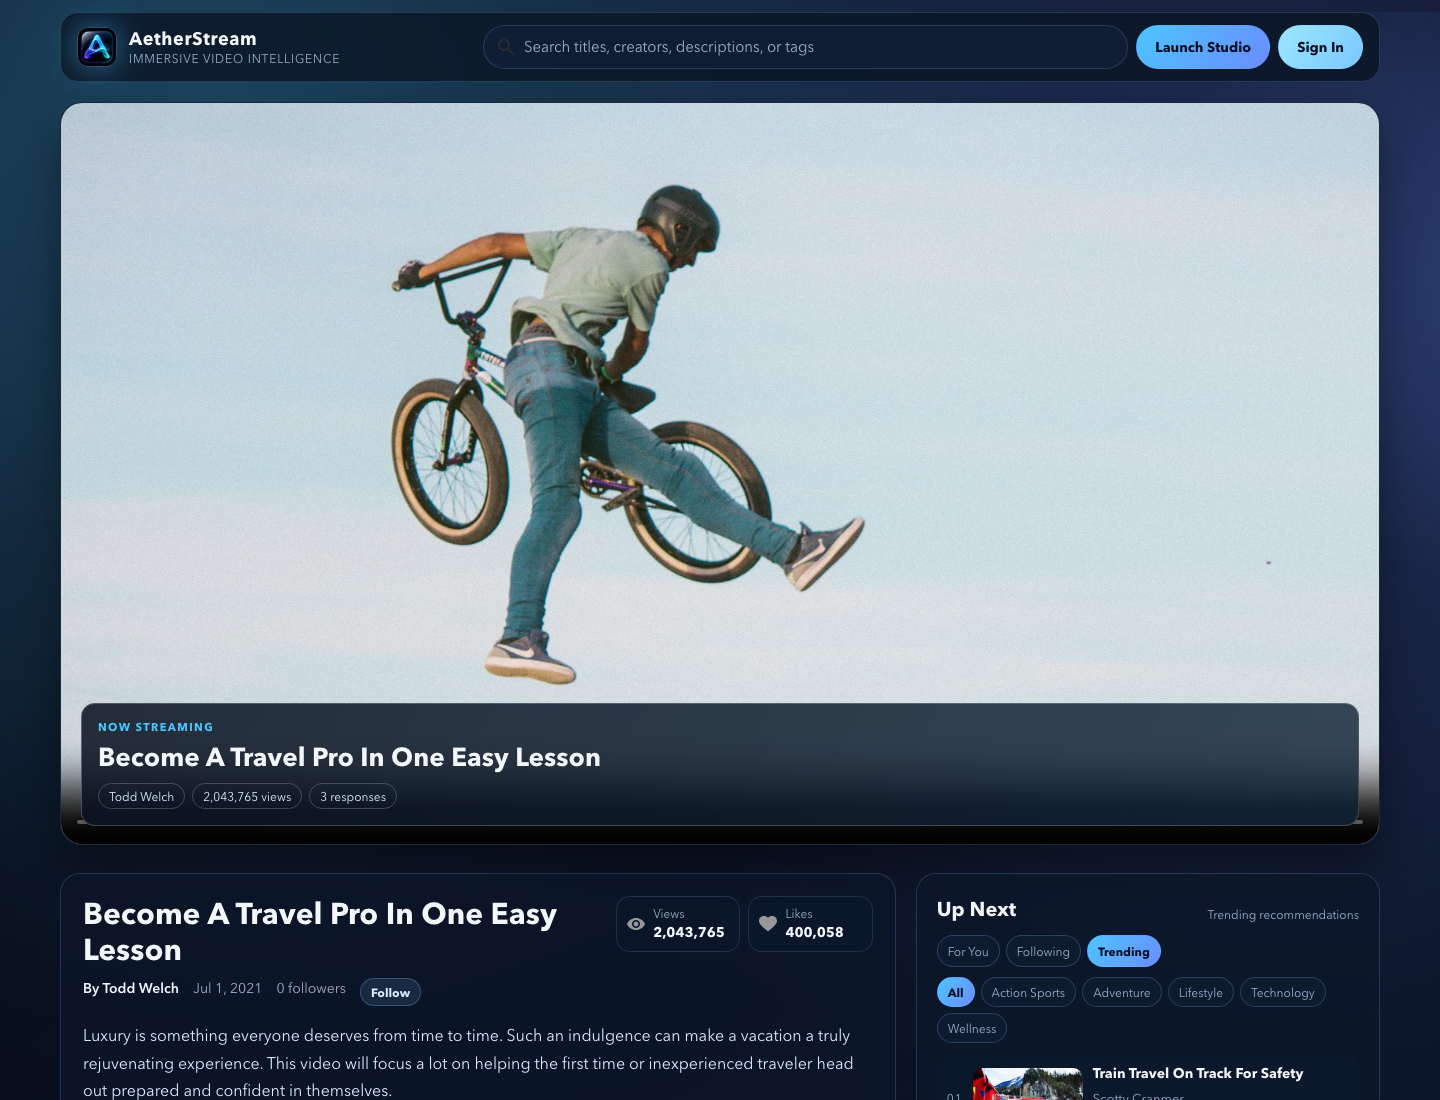
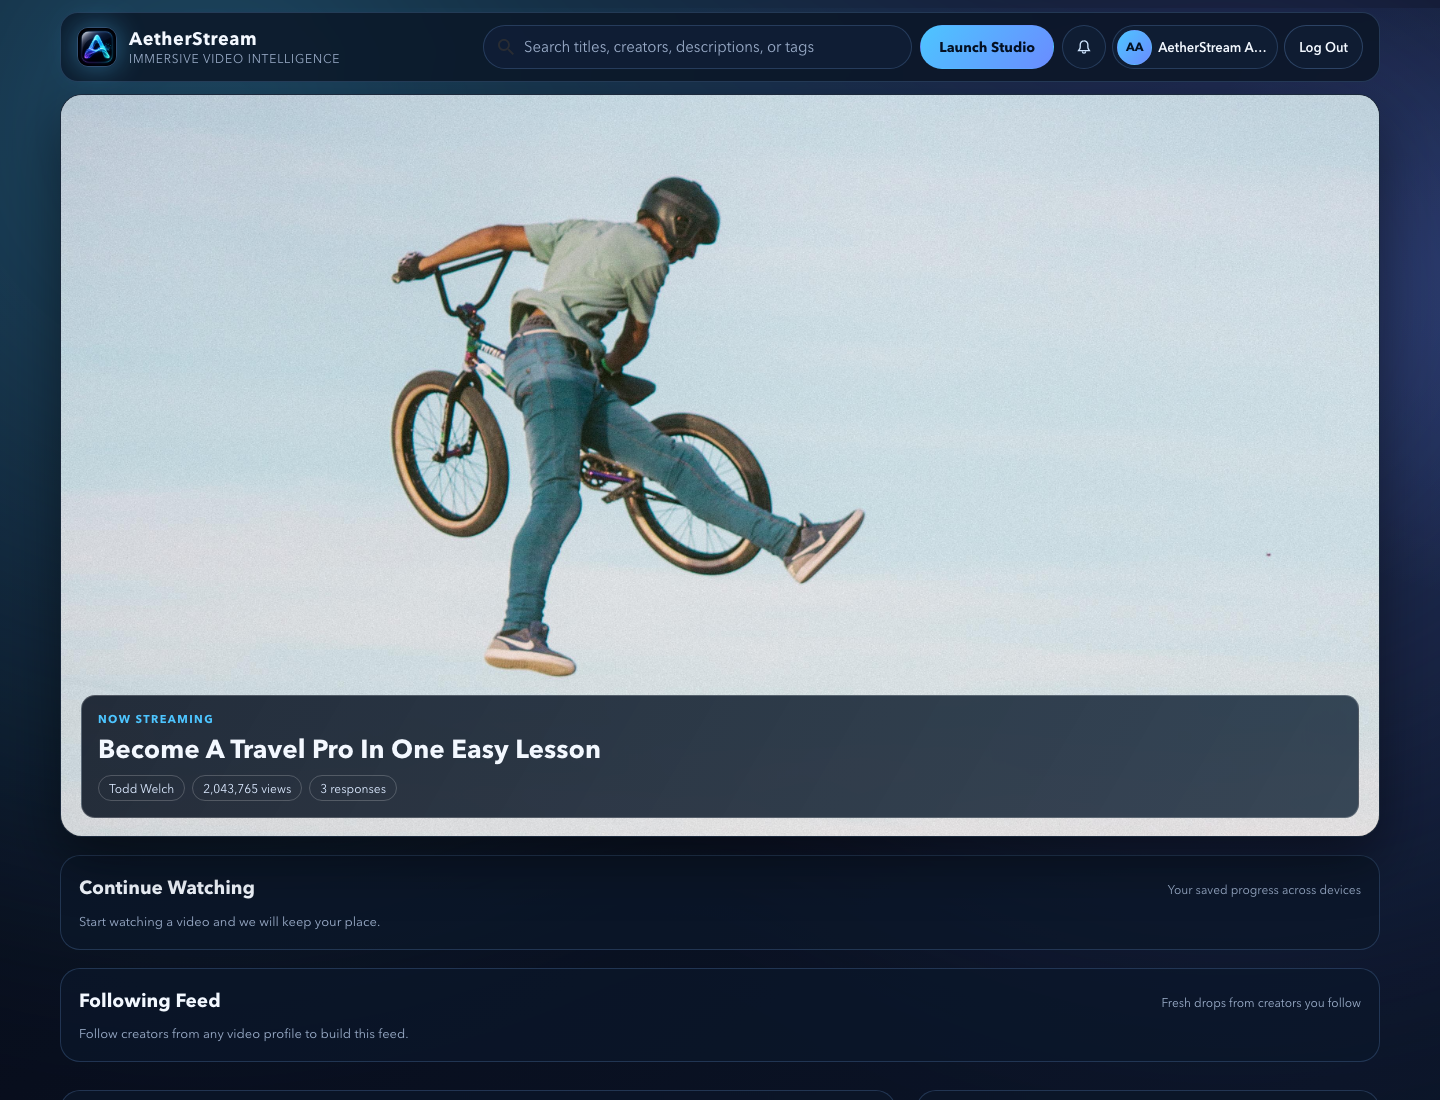
Refine README screenshots

diff --git a/src/components/hero/Hero.js b/src/components/hero/Hero.js
@@ -1,5 +1,5 @@
 import "./Hero.scss";
-import { useCallback, useEffect, useRef } from "react";
+import { useCallback, useEffect, useRef, useState } from "react";
 
 function Hero({
   currentVideoDetails,
@@ -8,6 +8,7 @@ function Hero({
 }) {
   const videoRef = useRef(null);
   const lastAppliedResumeKeyRef = useRef("");
+  const [hasStartedPlayback, setHasStartedPlayback] = useState(false);
   const commentCount = currentVideoDetails.comments.length;
   const activeVideoId = currentVideoDetails.id;
 
@@ -39,6 +40,10 @@ function Hero({
     },
     [activeVideoId, onProgressChange]
   );
+
+  useEffect(() => {
+    setHasStartedPlayback(false);
+  }, [activeVideoId]);
 
   useEffect(() => {
     const videoElement = videoRef.current;
@@ -87,18 +92,29 @@ function Hero({
   return (
     <section className="hero">
       <div className="hero__container">
-        <video
-          ref={videoRef}
-          className="hero__video"
-          src={currentVideoDetails.video}
-          poster={currentVideoDetails.image}
-          preload="metadata"
-          controls
-          onTimeUpdate={() => emitProgress(false)}
-          onPause={() => emitProgress(true)}
-          onSeeked={() => emitProgress(true)}
-          onEnded={() => emitProgress(true)}
-        />
+        <div className="hero__media">
+          <video
+            ref={videoRef}
+            className="hero__video"
+            src={currentVideoDetails.video}
+            poster={currentVideoDetails.image}
+            preload="metadata"
+            controls
+            onPlay={() => setHasStartedPlayback(true)}
+            onTimeUpdate={() => emitProgress(false)}
+            onPause={() => emitProgress(true)}
+            onSeeked={() => emitProgress(true)}
+            onEnded={() => emitProgress(true)}
+          />
+          {!hasStartedPlayback && (
+            <img
+              className="hero__poster"
+              src={currentVideoDetails.image}
+              alt=""
+              aria-hidden="true"
+            />
+          )}
+        </div>
         <div className="hero__overlay">
           <p className="hero__eyebrow">Now Streaming</p>
           <h2 className="hero__title">{currentVideoDetails.title}</h2>

diff --git a/src/components/hero/Hero.scss b/src/components/hero/Hero.scss
@@ -14,10 +14,27 @@
   box-shadow: 0 2.4rem 5.4rem rgba(0, 0, 0, 0.45);
 }
 
-.hero__video {
-  width: 100%;
+.hero__media {
+  position: relative;
   aspect-ratio: 16 / 9;
+  background: #02050c;
+}
+
+.hero__video,
+.hero__poster {
+  width: 100%;
+  height: 100%;
   object-fit: cover;
+}
+
+.hero__video {
+  display: block;
+}
+
+.hero__poster {
+  position: absolute;
+  inset: 0;
+  pointer-events: none;
 }
 
 .hero__overlay {

diff --git a/README.md b/README.md
@@ -1,49 +1,91 @@
 # AetherStream
 
-Futuristic, subtle redesign of the BrainFlix app with a refreshed product identity and premium streaming UI.
+AetherStream is a polished streaming dashboard built from the BrainFlix app foundation. It pairs a cinematic React client with the companion AetherStream API so viewers can browse video content while creators can publish, manage, and measure their work.
 
-## Highlights
+## What It Does
 
-- Rebranded app shell and metadata (`AetherStream`)
-- Glassmorphism-inspired interface with ambient gradients
-- Search-powered "Up Next" rail filter
-- Cinematic hero overlay with live content chips
-- Elevated article, comments, and response composer cards
-- Rebuilt upload studio with:
-  - live title/description preview
-  - character counters
-  - improved publish validation and loading state
+- Presents a branded streaming shell with responsive navigation, search, notifications, and protected routes.
+- Streams featured video content with a poster-backed hero player, engagement chips, comments, likes, saves, and watch-progress tracking.
+- Supports creator discovery with profile pages, follow actions, recent uploads, and creator-level metrics.
+- Provides an authenticated creator studio for profile updates, video management, saved videos, watch history, and analytics windows.
+- Includes an upload workflow with video file selection, thumbnail selection, live preview, validation, and upload progress.
+- Includes a local admin demo login to review and update authenticated app states quickly during development.
+- Maintains dependencies through Dependabot and explicit npm audit scripts.
 
 ## Screenshots
 
-Captured from the local app with Chrome headless after signing in through the admin demo login.
+Captured from the local app with Chrome headless after signing in through the admin demo login where authentication was needed.
 
-<img src="docs/screenshots/aetherstream-admin-desktop.png" alt="AetherStream admin profile on desktop" width="720" />
+### Desktop
 
-<img src="docs/screenshots/aetherstream-admin-mobile.png" alt="AetherStream admin profile on mobile" width="360" />
+| Access | Home |
+| --- | --- |
+| <img src="docs/screenshots/aetherstream-auth-desktop.png" alt="AetherStream access screen on desktop" width="520" /> | <img src="docs/screenshots/aetherstream-home-desktop.png" alt="AetherStream home feed on desktop" width="520" /> |
 
-## Run Locally
+| Upload Studio | Creator Profile |
+| --- | --- |
+| <img src="docs/screenshots/aetherstream-upload-desktop.png" alt="AetherStream upload studio on desktop" width="520" /> | <img src="docs/screenshots/aetherstream-creator-desktop.png" alt="AetherStream creator profile on desktop" width="520" /> |
+
+| Admin Profile |
+| --- |
+| <img src="docs/screenshots/aetherstream-profile-desktop.png" alt="AetherStream admin profile and analytics on desktop" width="720" /> |
+
+### Mobile
+
+| Home | Profile | Upload |
+| --- | --- | --- |
+| <img src="docs/screenshots/aetherstream-home-mobile.png" alt="AetherStream home feed on mobile" width="220" /> | <img src="docs/screenshots/aetherstream-profile-mobile.png" alt="AetherStream profile on mobile" width="220" /> | <img src="docs/screenshots/aetherstream-upload-mobile.png" alt="AetherStream upload studio on mobile" width="220" /> |
+
+## Local Development
+
+This client expects the companion API to run on `http://localhost:8080/`. The API URL currently lives in `src/components/utilities/Utilities.js`.
+
+Start the API from the sibling server repo:
+
+```bash
+cd ../nicholas-kerr-aetherstream-server
+npm install
+npm start
+```
+
+Start the client from this repo:
 
 ```bash
 npm install
 npm start
 ```
 
-API is expected at `http://localhost:8080/`.
+The client runs at `http://localhost:3000/`.
 
-## Build
+## Admin Demo Login
+
+The access screen includes an `Admin Login` action for local review. It signs into the seeded admin account exposed by the companion API so authenticated flows can be tested without manually creating a user.
+
+Use it for development screenshots, profile updates, upload flow checks, analytics views, notification checks, and protected-route verification.
+
+## Scripts
 
 ```bash
+npm start
 npm run build
-```
-
-## Maintenance
-
-Dependabot checks npm dependencies and GitHub Actions weekly, groups minor and patch updates, and leaves major upgrades for manual review.
-
-```bash
 npm run audit
 npm run audit:prod
 npm run audit:fix
+```
+
+- `npm start` launches the React development server.
+- `npm run build` creates a production build.
+- `npm run audit` checks the full dependency tree.
+- `npm run audit:prod` checks production dependencies only.
+- `npm run audit:fix` applies npm's available safe audit fixes.
+
+## Maintenance
+
+Dependabot is configured in `.github/dependabot.yml` to check npm dependencies and GitHub Actions weekly. Minor and patch dependency updates are grouped into safe review PRs, while major version upgrades are left for manual review.
+
+Before merging dependency updates, run:
+
+```bash
 npm run build
+npm run audit:prod
 ```
